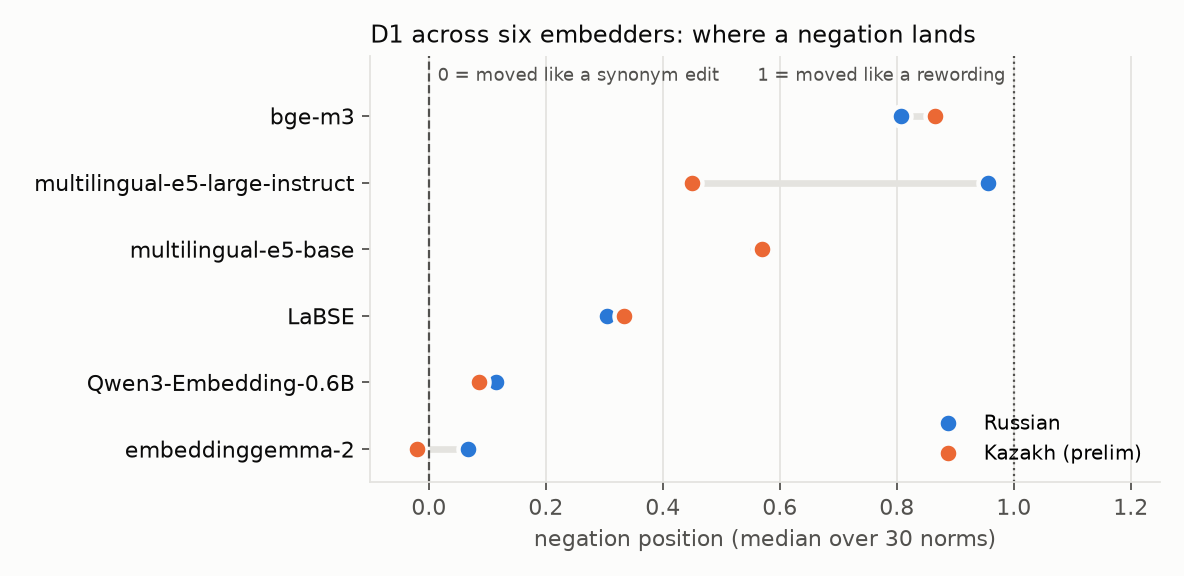
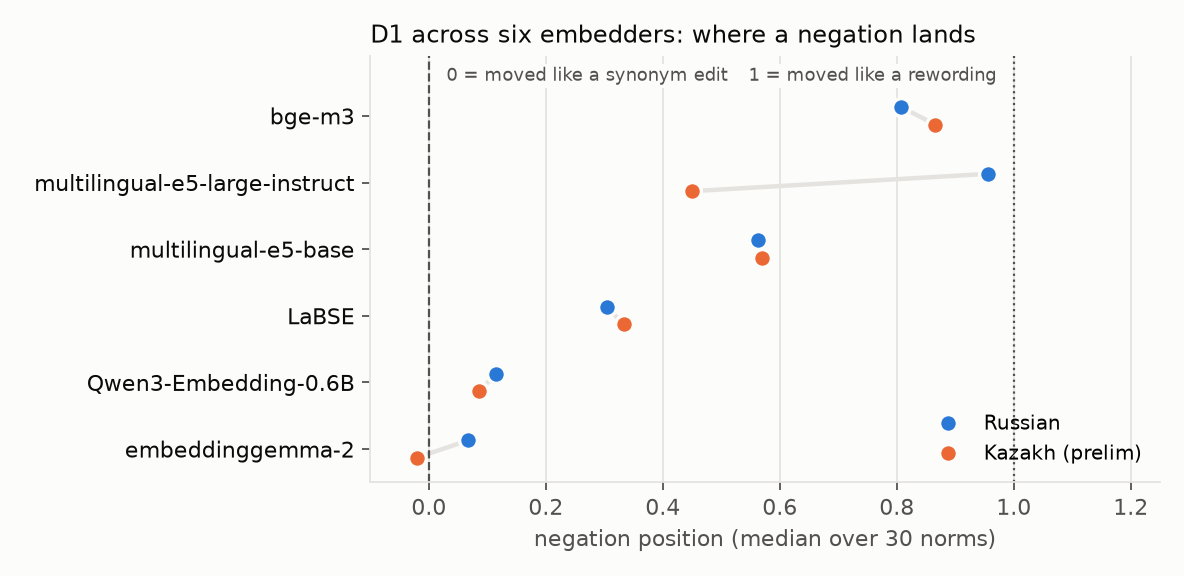
D1 pool figure: offset Ru/Kz points so equal values stay visible

diff --git a/tools/report/make_figures.py b/tools/report/make_figures.py
@@ -30,17 +30,20 @@ def d1_pool():
     fig, ax = plt.subplots(figsize=(7.4, 3.6))
     for i, k in enumerate(keys):
         a, b = ru[k]["negation_position"], kz[k]["negation_position"]
-        ax.plot([a, b], [i, i], color=GRID, lw=3, solid_capstyle="round", zorder=1)
-        for lang, v in (("ru", a), ("kz", b)):
-            ax.plot(v, i, "o", ms=9, color=COL[lang], mec=SURF, mew=2, zorder=2,
+        # Ru slightly above, Kz slightly below the row, so coinciding values stay visible
+        ax.plot([a, b], [i - 0.13, i + 0.13], color=GRID, lw=2, zorder=1)
+        for lang, v, dy in (("ru", a, -0.13), ("kz", b, 0.13)):
+            ax.plot(v, i + dy, "o", ms=8, color=COL[lang], mec=SURF, mew=1.5, zorder=2,
                     label={"ru": "Russian", "kz": "Kazakh (prelim)"}[lang] if i == 0 else None)
     ax.set_yticks(range(len(keys)))
     ax.set_yticklabels([NAMES[k] for k in keys], color=INK)
     ax.set_ylim(len(keys) - 0.5, -0.9)
     ax.axvline(0, color=INK2, lw=1, ls="--")
     ax.axvline(1, color=INK2, lw=1, ls=":")
-    ax.text(0.015, -0.6, "0 = moved like a synonym edit", fontsize=8, color=INK2, va="center")
-    ax.text(0.985, -0.6, "1 = moved like a rewording", fontsize=8, color=INK2, va="center", ha="right")
+    box = dict(boxstyle="square,pad=0.15", facecolor=SURF, edgecolor="none")
+    ax.text(0.03, -0.6, "0 = moved like a synonym edit", fontsize=8, color=INK2, va="center", bbox=box, zorder=3)
+    ax.text(0.97, -0.6, "1 = moved like a rewording", fontsize=8, color=INK2, va="center", ha="right", bbox=box,
+            zorder=3)
     ax.set_xlim(-0.1, 1.25)
     ax.set_xlabel("negation position (median over 30 norms)")
     ax.grid(axis="x", color=GRID, lw=0.8)
